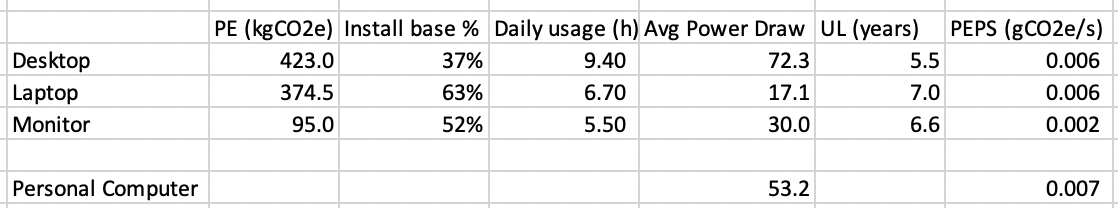
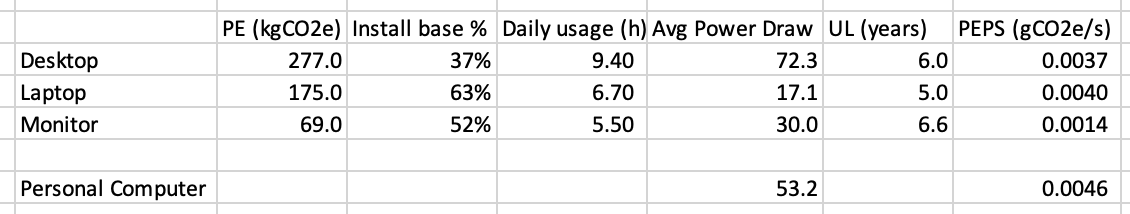
incorporate negaoctet production emissions

diff --git a/docs/consumer_devices.md b/docs/consumer_devices.md
@@ -24,13 +24,13 @@ The following sections outline the sources and assumptions used to calculate the
 
 ## Personal Computer
 
-From [Belkhir and Elmeligi](#belkhir-and-elmeligi-2018):
+From [Negaoctet](Negaoctet):
 
-| Device      | Production Energy (kgCO2e) | Useful Life (years) |
-| ----------- | -------------------------- | ------------------- |
-| Desktop     | 218 - 628                  | 5.5                 |
-| Laptop      | 281 - 468                  | 7                   |
-| LCD Monitor | 95                         | 6.6                 |
+| Device  | Production Energy (kgCO2e) | Description                                                                                                                                                 |
+| ------- | -------------------------- | ----------------------------------------------------------------------------------------------------------------------------------------------------------- |
+| Desktop | 277                        | Desktop; personal use; average configuration: 1 CPU, 10 GB RAM, 1173 GB HDD, 442 GB SSD, mix of integrated or separated graphic card, 6 years lifespan; RAS |
+| Laptop  | 175                        | Laptop; use mix, personal use; average configuration: 14,6 inches screen, 1 CPU, 11 GB RAM, 497 GB SSD, 5 years lifespan; RAS                               |
+| Monitor | 69                         | Computer monitors; use mix, personal and professional use; average dimension (24 inches) and technology (98.6% LCD, 1.4% OLED), 6,6 years lifespan; RAS     |
 
 From [Urban et al](#urban-et-al-2019):
 
@@ -40,31 +40,25 @@ From [Urban et al](#urban-et-al-2019):
 | Laptop  | 122                | 11 (idle), 22 (active) | 3.0 (idle), 3.7 (active) |
 | Monitor | 101                | 30                     | 5.5                      |
 
-Since we do not know the exact device a consumer is using (most reporting is aggregated to device type), we use install base to create a synthetic "personal computer". See [PC emissions model](supporting/pc_emissions_model.xlsx). Based on this analysis, a personal computer uses an average of 53.2 W of energy while in use, and has Production Energy of 0.007 gCO2e per second of use.
+Since we do not know the exact device a consumer is using (most reporting is aggregated to device type), we use install base to create a synthetic "personal computer". See [PC emissions model](supporting/pc_emissions_model.xlsx). Based on this analysis, a personal computer uses an average of 53.2 W of energy while in use, and has Production Energy of 0.005 gCO2e per second of use.
 
 ![Visual representation of the PC emissions model](images/pc_emissions_model.png)
 
 ## Tablet
 
-From [Belkhir and Elmeligi](#belkhir-and-elmeligi-2018):
-| Device | Production Energy (kgCO2e) | Useful Life (years)
-| --- | --- | ---
-| Tablet | 80 - 116 | 7
+From [Negaoctet](Negaoctet), a "Tablet; use mix, personal or professional use; average configuration: 10.44 inches screen mix of LCD screen, 4 GB RAM, 121 GB memory, 3 years lifespan; RAS" has 25.3 kgCO2e per year of embodied emissions.
 
-We don't have a stat on daily usage of tablets. Assuming that people use them in lieu of a laptop, taking the laptop number of 6.7 hours a day. This yields a PEPS of 0.0016 gCO2e/s.
+We don't have a stat on daily usage of tablets. Assuming that people use them in lieu of a laptop, taking the laptop number of 6.7 hours a day. This yields a PEPS of 0.00287 gCO2e/s.
 
 For energy use, [iBatteryLife](https://ibatterylife.com/ipad-battery-life-test/) compares multiple iPad models and battery life is around 10 hours for each. The average iPad, per [Sir Apfelot](https://sir-apfelot.de/en/battery-capacity-ipad-mah-19060/), has around 30 Wh of battery capacity. Thus, a tablet has an average power draw of 3W.
 
 ## Smartphone
 
-From [Belkhir and Elmeligi](#belkhir-and-elmeligi-2018):
-| Device | Production Energy (kgCO2e) | Useful Life (years)
-| --- | --- | ---
-| Smartphone | 40 - 80 | 2
+From [Negaoctet](Negaoctet), a "smartphone; use mix, personal use; average configuration: 6,61 inches screen mix of LCD and OLED technologies, 7,3 GB RAM, 180 GB memory, 2,5 years lifespan; RAS" has 33.6 kgCO2e per year of embodied emissions.
+
+The typical person uses her phone for 4 hours and 23 minutes a day per [Statista](https://www.statista.com/statistics/1045353/mobile-device-daily-usage-time-in-the-us/). This yields a PEPS of 0.0058 gCO2e/s. (Note: SRI uses a 3 hrs/day number)
 
 As an example, per [GSM Arena](#gsmarena), the Apple iPhone 13 takes 16 hours and 8 minutes to run out of battery when browsing the internet (similar to video playback). In idle mode, it takes 174 hours to discharge. It has 12.41Wh of battery capacity per [Macworld](#macworld). Thus, the iphone consumes 0.77W when active, and 0.071W when idle.
-
-The typical person uses her phone for 4 hours and 23 minutes a day per [Statista](https://www.statista.com/statistics/1045353/mobile-device-daily-usage-time-in-the-us/). This yields a PEPS of 0.0052 gCO2e/s.
 
 ## Television
 
@@ -81,16 +75,18 @@ From [Urban et al](#urban-bryan-and-roth-2019):
 
 We combine these using install base to create a synthetic "TV System" that represents the full power draw of the consumer setup. The weighted power draw of a typical setup is 87.4 watts.
 
-From [Hischier and Baudin](#hischier-and-baudin-2010), the production energy of a 42" plasma television is 637kg. Per [Kwiecień et al](#kwiecień-et-al-2019) the average useful life of a plasma TV is 6 years. We do not have data on the embodied emissions from set top boxes or sound bars so these are omitted from the current analysis. Based on the 3.9 hours a day of usage, the embodied emissions from a plasma TV are 0.021 gCO2e/s.
+From the [Negaoctet database](#Negaoctet), the production emissions from a 45" television (98.6% LCD, 1.4% OLED) are 45 kgCO2e per year over an 8 year useful life. We do not have data on the embodied emissions from set top boxes or sound bars so these are omitted from the current analysis. Based on 3.9 hours/day of usage, the embodied emissions from a TV are 0.0088 gCO2e/s.
+
+A detailed study of many TV models can be found at [ecocostsavings.com](https://ecocostsavings.com/tv-wattage/), indicating that the average power draw of a TV in the US is 59W active, 0.5W standby. This data is not tied to a scientific study but does indicate that overall power usage may have declined since the Urban study above.
 
 ## Summary
 
 | Device            | Power Draw (W) | PEPS (gCO2e/s) |
 | ----------------- | -------------- | -------------- |
 | Personal computer | 53.2           | 0.007          |
-| Tablet            | 3              | 0.0016         |
-| Smartphone        | 0.77           | 0.0052         |
-| TV System         | 87.4           | 0.021          |
+| Tablet            | 3              | 0.0029         |
+| Smartphone        | 0.77           | 0.0058         |
+| TV System         | 87.4           | 0.0046         |
 
 ## Notes and Caveats
 
@@ -127,3 +123,9 @@ Kwiecień, Klaudia & Kania, Gabriela & Malinowski, Mateusz. (2019). [The life cy
 ### Malmodin and Lundén, 2018
 
 Malmodin J, Lundén D. [The Energy and Carbon Footprint of the Global ICT and E&M Sectors 2010–2015](https://doi.org/10.3390/su10093027). Sustainability. 2018; 10(9):3027.
+
+### Negaoctet
+
+[Description of Negaoctet](https://codde.fr/en/our-software/negaoctet/database)
+
+[Negaoctet ADEME database 1.4](https://base-impacts.ademe.fr/documents/Negaoctet1.4.zip)
